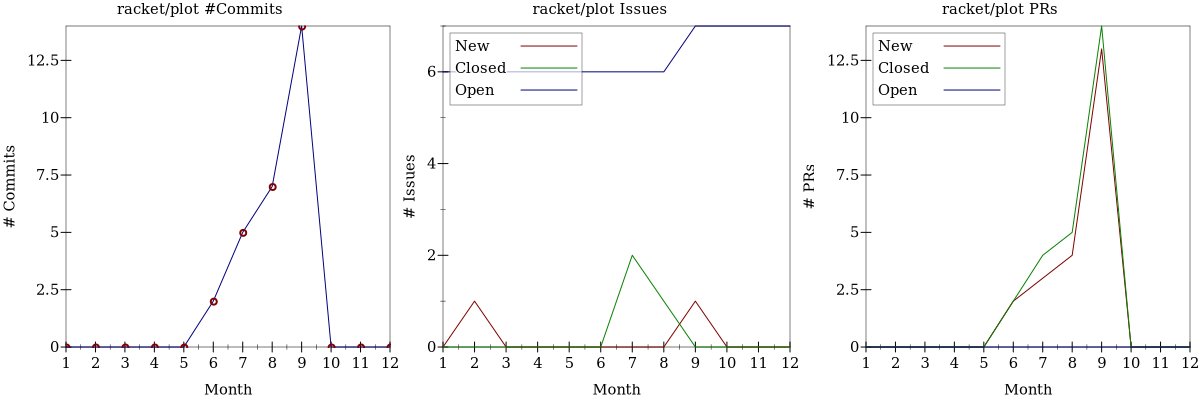
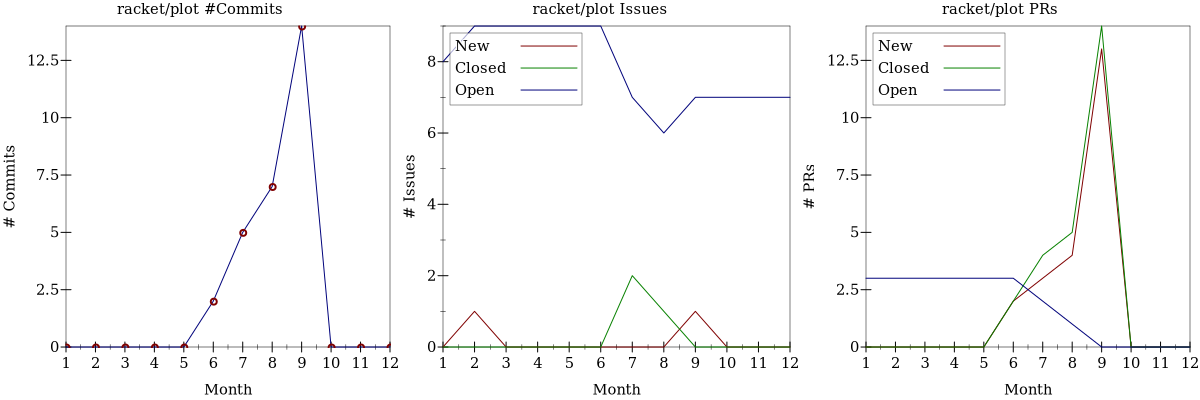
Fix plots

diff --git a/_src/posts/2021-01-04-issue44.md b/_src/posts/2021-01-04-issue44.md
@@ -299,7 +299,9 @@ In terms of contributions, we had a wide-range of contributions and contributors
 * `yurkobb`
 * Štěpán Němec
 
-I have used yearly statistics to plot the evolution of the number of commits, issues and prs for a few of the main projects. The plots should be self-explanatory.
+I have used yearly statistics to plot the evolution of the number of commits, issues and prs for a few of the main projects. The plots should be self-explanatory. 
+
+*Note*: A problem with the datasets meant that in the first few hours after publishing, the plots reflected incorrect values. This is now fixed. Thanks to Sorawee for noticing and pointing it out to me.
 
 ## `racket/racket`
 
@@ -372,6 +374,7 @@ If you wish to sponsor me and my work on Racket and Racket News - feel free to v
 
 Thanks to
 
+* Sorawee Porncharoenwase
 * Stephen De Gabrielle
 
 for their contributions to this issue.
